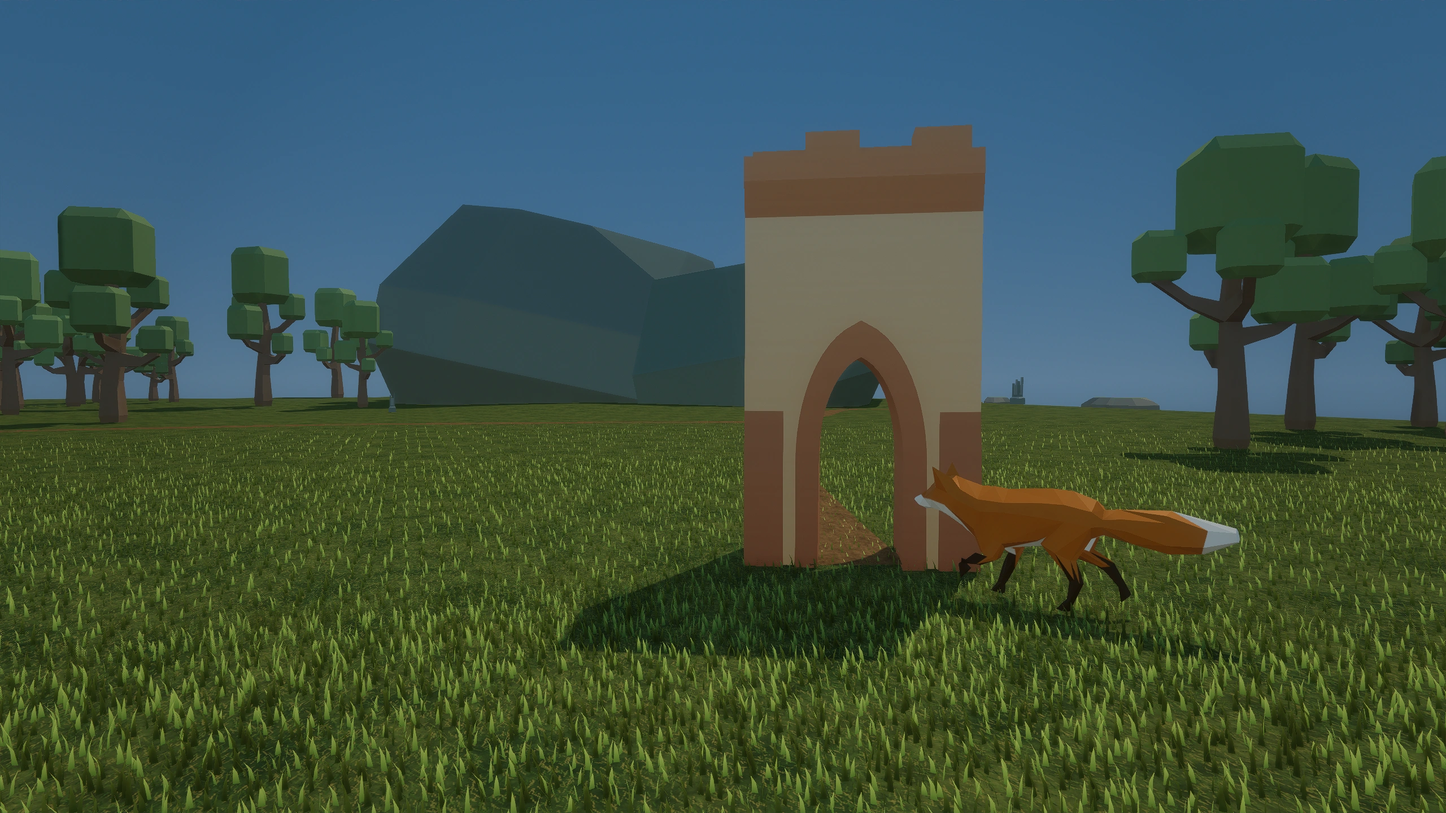
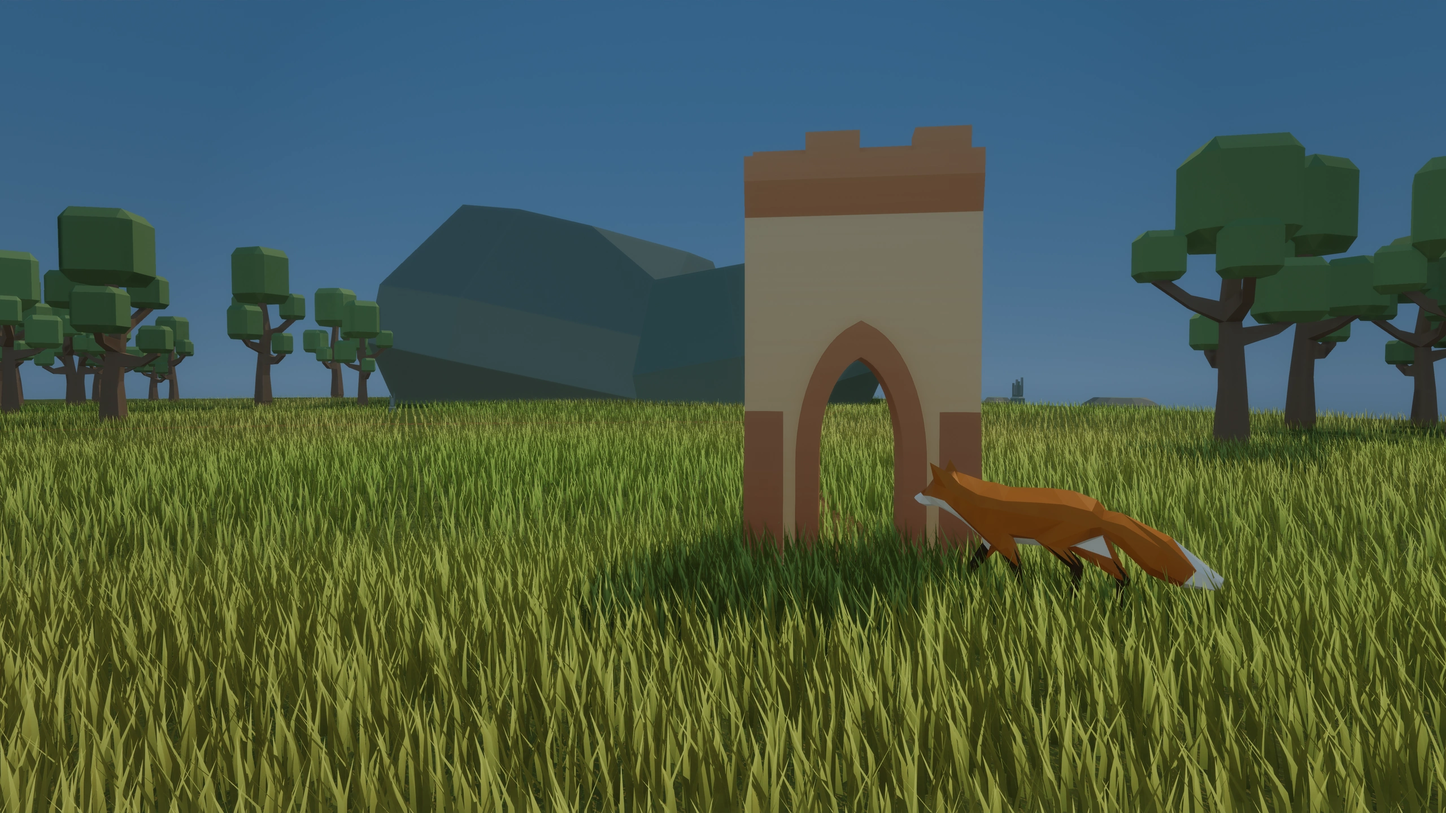
Improve meadow coverage and antialiasing in the hero capture

Changed region(s): [[0.0, 0.4688, 1.0, 1.0]]

diff --git a/website/index.html b/website/index.html
@@ -20,10 +20,10 @@
 </header>
 <main id="main">
   <section class="game-hero" aria-labelledby="hero-title">
-    <img class="hero-scene" src="assets/website-hero.webp" width="2560" height="1440" fetchpriority="high" alt="A fox beside a sanctuary arch, with sunlit grass and cast shadows in AetherCore’s native renderer">
+    <img class="hero-scene" src="assets/website-hero.webp?v=d7f1721f" width="2560" height="1440" fetchpriority="high" alt="A fox beside a sanctuary arch, with a dense sunlit meadow and cast shadows in AetherCore’s native renderer">
     <div class="hero-shade"></div>
     <div class="hero-content"><h1 id="hero-title">A game engine<br>for desktop and web.</h1><p>Build 2D and 3D games with C# or Rust,<br> using the same editor and project.</p><div class="hero-actions"><a class="button primary" href="demos/fox-showcase/" aria-describedby="play-requirements">Play FoxShowcase <span>↗</span></a><a class="button secondary" href="#features">Explore the engine <span>↓</span></a></div><span class="hero-status" id="play-requirements">Play requires a desktop browser with WebGPU · Engine in active development</span></div>
-    <button class="hero-credit" data-image="assets/website-hero.webp" data-caption="Sanctuary daylight — a dedicated native showcase scene using FoxShowcase assets" aria-label="Inspect Sanctuary daylight capture"><span>ENGINE CAPTURE</span><strong>Sanctuary daylight <b>↗</b></strong><small>Native lighting showcase</small></button>
+    <button class="hero-credit" data-image="assets/website-hero.webp?v=d7f1721f" data-caption="Sanctuary daylight — a dedicated native showcase scene using FoxShowcase assets" aria-label="Inspect Sanctuary daylight capture"><span>ENGINE CAPTURE</span><strong>Sanctuary daylight <b>↗</b></strong><small>Native lighting showcase</small></button>
   </section>
 
   <section class="feature-section section-pad" id="features" aria-labelledby="features-title">

diff --git a/docs/website.md b/docs/website.md
@@ -54,11 +54,11 @@ The README uses one `docs/images/showcase.webp` composite (2048 × 1776), retain
 
 ### Dedicated hero scene
 
-`projects/FoxShowcase/scenes/WebsiteHero.scene.toml` is an independent composition using the existing terrain, trails, landscape and fox assets. It adds a daylight environment, a warm subject fill, shorter grass, an authored camera and a sanctuary arch. The original playable scene, project startup scene and browser package are unchanged.
+`projects/FoxShowcase/scenes/WebsiteHero.scene.toml` is an independent composition using the existing terrain, trails, landscape and fox assets. It adds a daylight environment, a warm subject fill, a dense meadow, an authored camera and a sanctuary arch. Grass height is 0.35–0.65 with 0.050-wide blades at the renderer’s minimum 0.10 spacing. Its draw range extends to 100 with a 75–100 fade, beyond the visible tree line; the surface mask is disabled for continuous coverage. The original playable scene, project startup scene and browser package are unchanged.
 
-To reproduce the capture, open WebsiteHero in the native editor, temporarily set `graphics.autoExposure=false` and `graphics.exposure=0.45`, then Play and capture `PostProcess.FinalColor`. Exposure is a project/editor setting, not scene-serialized state: restore the prior settings afterward. The capture contains no HUD or editor chrome and has no painted lighting or post-image brightness adjustment.
+To reproduce the capture, open WebsiteHero in the native editor and temporarily set `graphics.autoExposure=false`, `graphics.exposure=0.45`, `graphics.fxaa=true`, `graphics.sharpness=0` and `graphics.filmGrain=0`. Set the editor’s Custom viewport resolution to 5120 × 2880, then Play and capture `PostProcess.FinalColor`; downsample once to 2560 × 1440 with Lanczos before WebP encoding. `graphics.renderScale=2` alone does not enlarge an enabled editor viewport. These are capture-session settings, not scene-serialized state: restore the prior settings afterward. The capture contains no HUD or editor chrome and has no painted lighting, post-image brightness adjustment or added blur.
 
-Raw evidence is `logs/website/hero-scene/hero-dense.png`; the selected WebP is copied unchanged to the website. The owned capture session restored the seven baselines listed in `logs/website/hero-scene/backup.json`. The website crop keeps the fox on the right on desktop and below the text on mobile; its shorter bottom fade retains the cast shadows.
+Raw evidence is `logs/website/hero-scene/aa-native-5120.png`; `crop-aa-1x.png` and `crop-aa-supersampled.png` record the edge-quality comparison. The final-color attachment follows FXAA, but supersampling resolves the thin grass edges more cleanly than the original 2560 × 1440 capture. The owned capture session restored its seven settings/project baselines. The website crop keeps the fox on the right on desktop and below the text on mobile; its shorter bottom fade retains the cast shadows. Update both hero image URLs’ content-version query when replacing the image to avoid stale cached previews.
 
 ### Adding development notes
 
